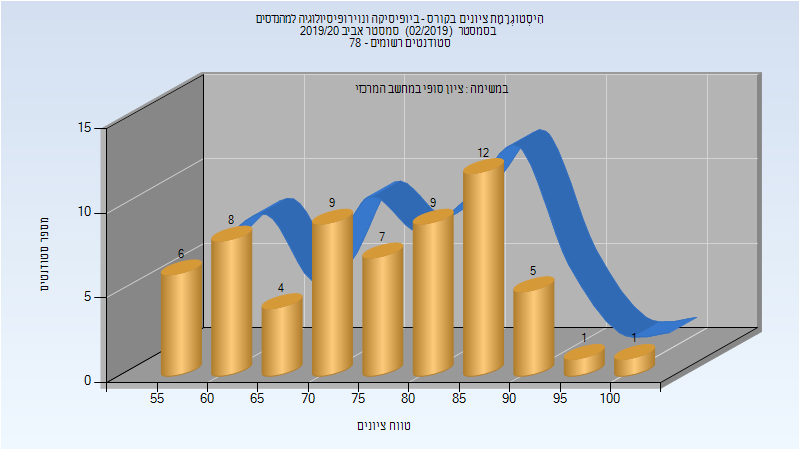
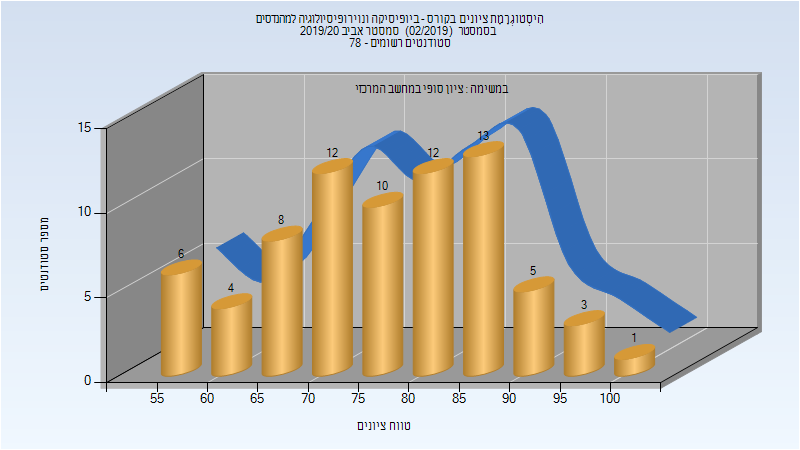
Deploy michael-maltsev/technion-histograms to github.com/michael-maltsev/technion-histograms.git:gh-pages

Changed region(s): [[0.25, 0.2178, 0.7188, 0.6844], [0.6875, 0.5911, 0.875, 0.8089]]

diff --git a/334331/index.html b/334331/index.html
@@ -350,5 +350,76 @@
 </tr>
 </tbody>
 </table>
+<h2>אביב 2020</h2>
+<table>
+<thead>
+<tr>
+<th>איש סגל</th>
+<th>תפקיד</th>
+</tr>
+</thead>
+<tbody>
+<tr>
+<td>אזהרי חיים</td>
+<td>מרצה - אחראי מקצוע</td>
+</tr>
+<tr>
+<td>מרקוביץ נועה</td>
+<td>מתרגל</td>
+</tr>
+</tbody>
+</table>
+<h3>סופי מועד א'</h3>
+<p><img src="201902/Final_A.png" alt="201902 Final_A" /></p>
+<table>
+<thead>
+<tr>
+<th>סטודנטים</th>
+<th>עברו/נכשלו</th>
+<th>אחוז עוברים</th>
+<th>ציון מינימלי</th>
+<th>ציון מקסימלי</th>
+<th>ממוצע</th>
+<th>חציון</th>
+</tr>
+</thead>
+<tbody>
+<tr>
+<td></td>
+<td></td>
+<td></td>
+<td></td>
+<td></td>
+<td></td>
+<td></td>
+</tr>
+</tbody>
+</table>
+<h3>סופי</h3>
+<p><img src="201902/Finals.png" alt="201902 Finals" /></p>
+<table>
+<thead>
+<tr>
+<th>סטודנטים</th>
+<th>עברו/נכשלו</th>
+<th>אחוז עוברים</th>
+<th>ציון מינימלי</th>
+<th>ציון מקסימלי</th>
+<th>ממוצע</th>
+<th>חציון</th>
+</tr>
+</thead>
+<tbody>
+<tr>
+<td></td>
+<td></td>
+<td></td>
+<td></td>
+<td></td>
+<td></td>
+<td></td>
+</tr>
+</tbody>
+</table>
   </body>
 </html>

diff --git a/336537/index.html b/336537/index.html
@@ -600,13 +600,13 @@
 </thead>
 <tbody>
 <tr>
-<td>62</td>
-<td>62/0</td>
+<td>74</td>
+<td>74/0</td>
 <td>100</td>
 <td>55</td>
 <td>100</td>
-<td>76.194</td>
-<td>75.5</td>
+<td>77.378</td>
+<td>77</td>
 </tr>
 </tbody>
 </table>

diff --git a/394902/index.html b/394902/index.html
@@ -947,12 +947,12 @@
 </thead>
 <tbody>
 <tr>
-<td>229</td>
-<td>229/0</td>
+<td>230</td>
+<td>230/0</td>
 <td>100</td>
 <td>87</td>
 <td>100</td>
-<td>98.145</td>
+<td>98.148</td>
 <td>98</td>
 </tr>
 </tbody>

diff --git a/334331/README.md b/334331/README.md
@@ -107,3 +107,26 @@
 | ---- | ---- | ---- | ---- | ---- | ---- | ---- |
 |  |  |  |  |  |  |  |
 
+## אביב 2020
+
+| איש סגל | תפקיד |
+| ---- | ---- |
+| אזהרי חיים | מרצה - אחראי מקצוע |
+| מרקוביץ נועה | מתרגל |
+
+### סופי מועד א'
+
+![201902 Final_A](201902/Final_A.png)
+
+| סטודנטים | עברו/נכשלו | אחוז עוברים | ציון מינימלי | ציון מקסימלי | ממוצע | חציון |
+| ---- | ---- | ---- | ---- | ---- | ---- | ---- |
+|  |  |  |  |  |  |  |
+
+### סופי
+
+![201902 Finals](201902/Finals.png)
+
+| סטודנטים | עברו/נכשלו | אחוז עוברים | ציון מינימלי | ציון מקסימלי | ממוצע | חציון |
+| ---- | ---- | ---- | ---- | ---- | ---- | ---- |
+|  |  |  |  |  |  |  |
+

diff --git a/394902/README.md b/394902/README.md
@@ -302,5 +302,5 @@
 
 | סטודנטים | עברו/נכשלו | אחוז עוברים | ציון מינימלי | ציון מקסימלי | ממוצע | חציון |
 | ---- | ---- | ---- | ---- | ---- | ---- | ---- |
-| 229 | 229/0 | 100 | 87 | 100 | 98.145 | 98 |
+| 230 | 230/0 | 100 | 87 | 100 | 98.148 | 98 |
 

diff --git a/336537/README.md b/336537/README.md
@@ -185,5 +185,5 @@
 
 | סטודנטים | עברו/נכשלו | אחוז עוברים | ציון מינימלי | ציון מקסימלי | ממוצע | חציון |
 | ---- | ---- | ---- | ---- | ---- | ---- | ---- |
-| 62 | 62/0 | 100 | 55 | 100 | 76.194 | 75.5 |
+| 74 | 74/0 | 100 | 55 | 100 | 77.378 | 77 |
 
